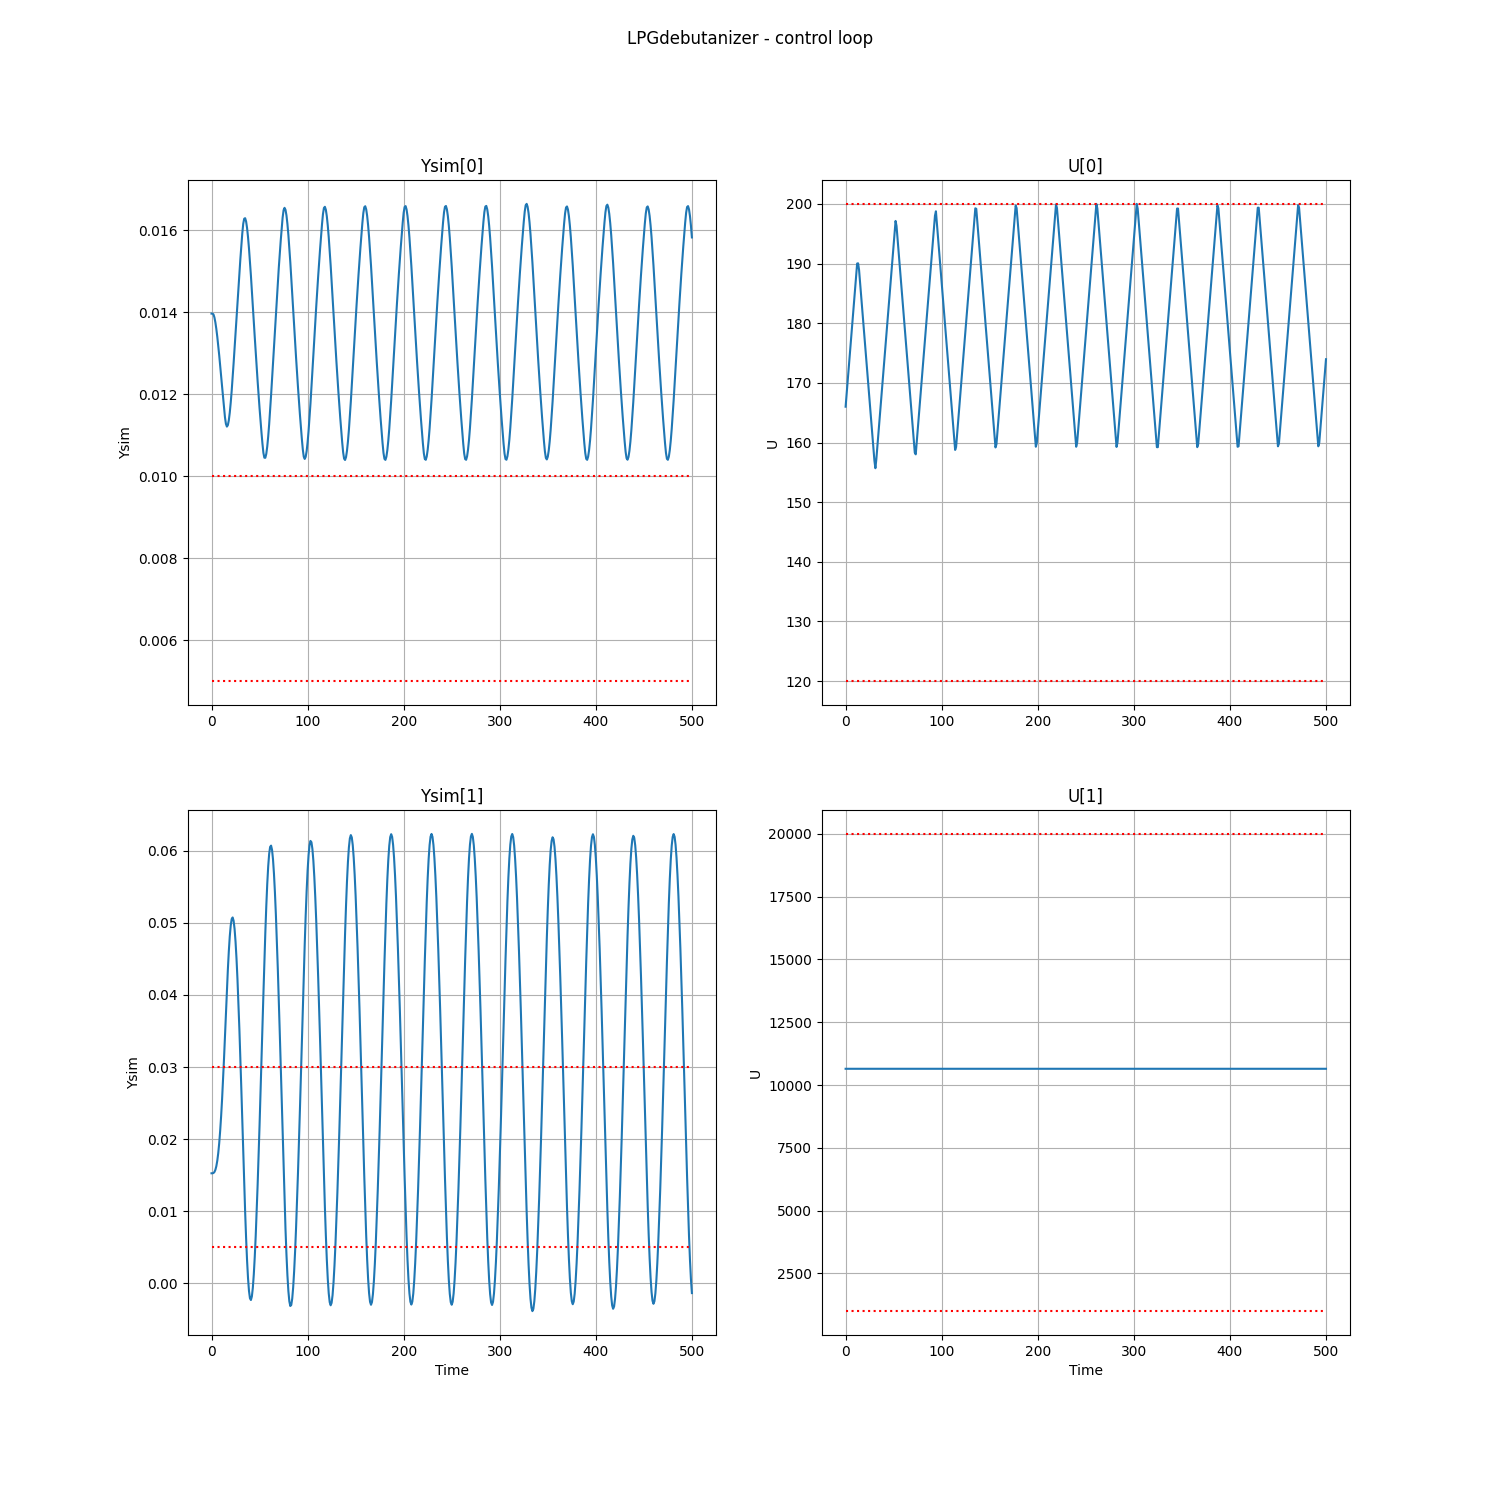
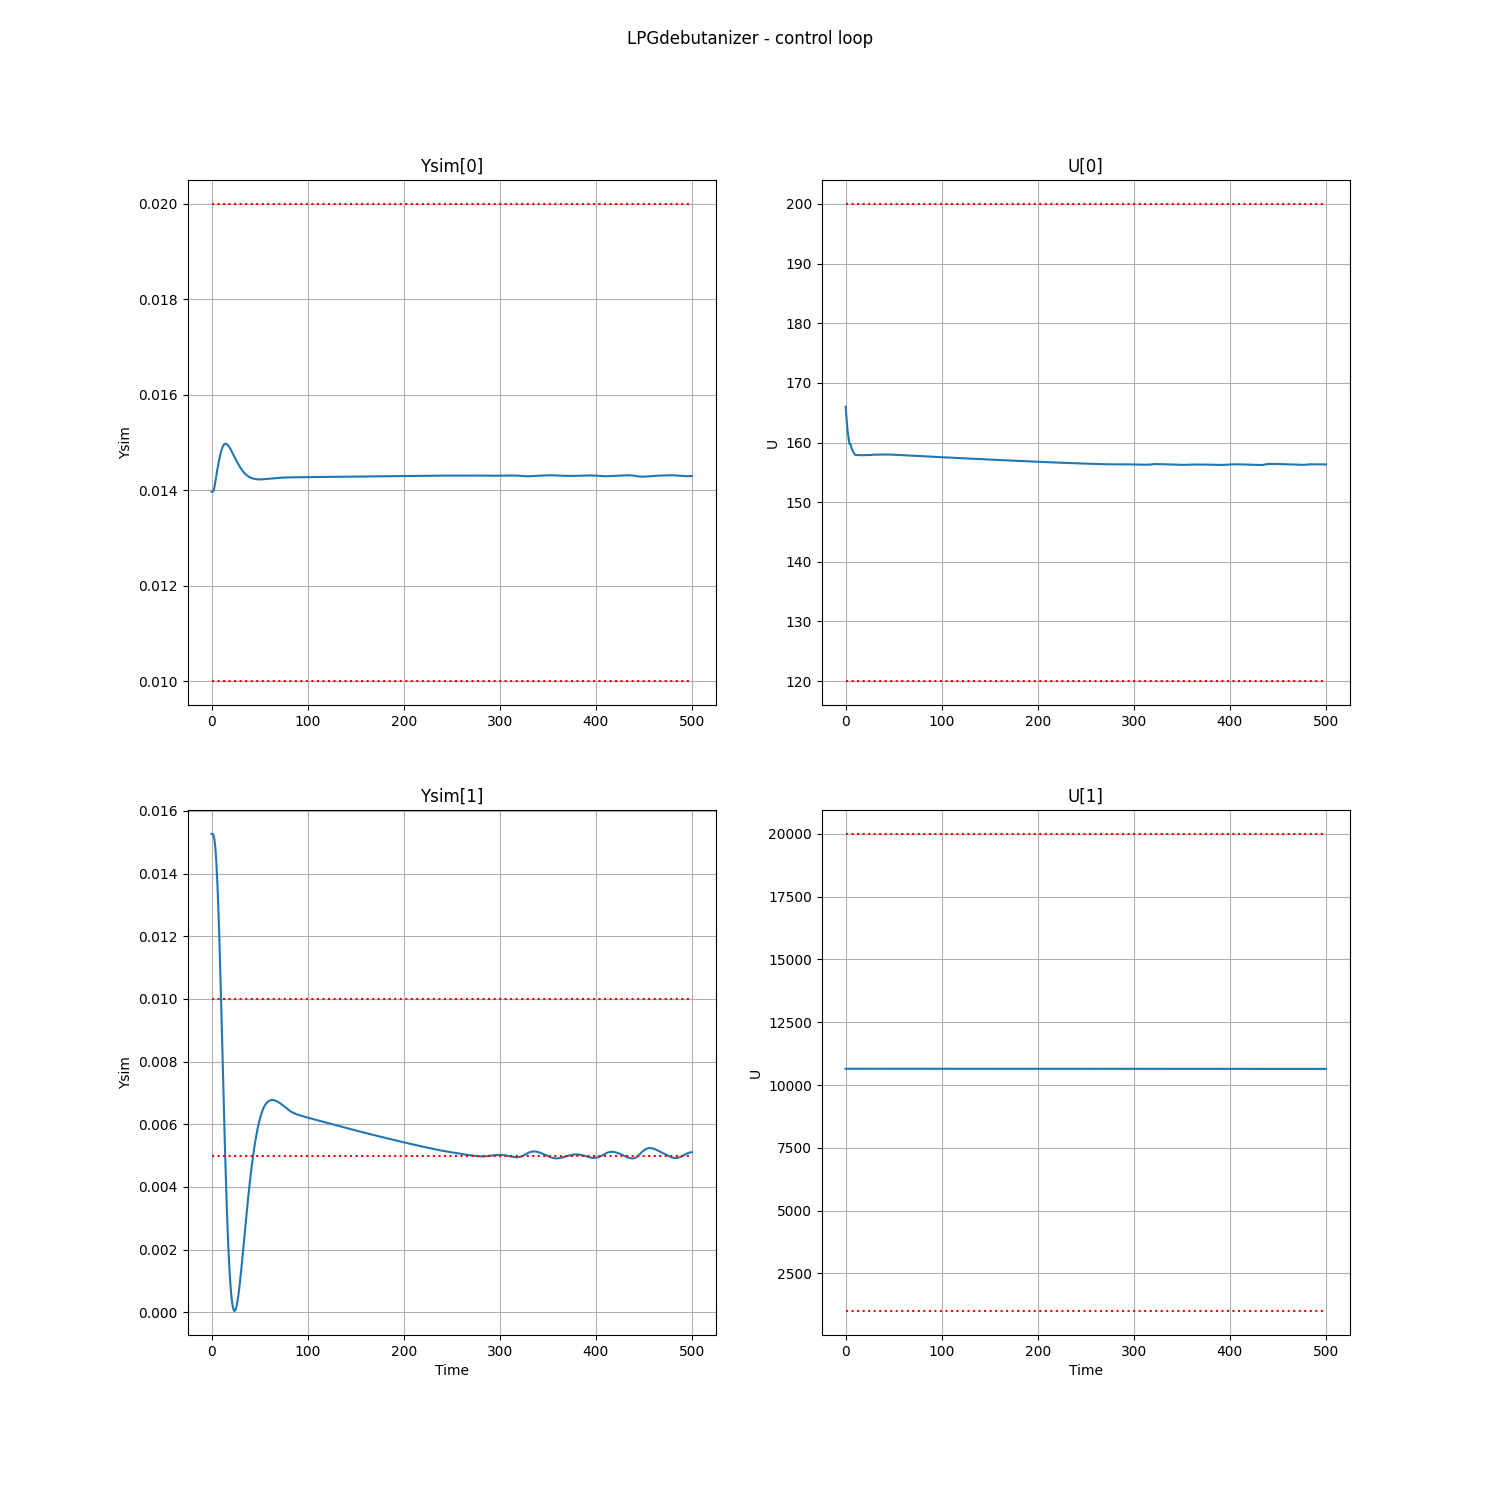
LPGdebutanizer control successful

diff --git a/01-LPGdebutanizerSimTest.py b/01-LPGdebutanizerSimTest.py
@@ -40,11 +40,11 @@ p = 120  # Output prediction horizon
 m = 5  # Control horizon
 umax = np.array([200., 20000.])
 umin = np.array([120., 1000.])
-ymax = np.array([0.01, 0.03])
-ymin = np.array([0.005, 0.005])
+ymax = np.array([0.02, 0.01])
+ymin = np.array([0.01, 0.005])
 dumax = np.array([2, 200.])
 q = np.array([1000., 1000.])  # Output weights
-r = np.array([10., 0.0000001])  # Input weights
+r = np.array([100., 1])  # Input weights
 
 # Control loop simulation
 tsim = np.linspace(0, nsim * T, nsim + 1)  # Simulation Time vector
